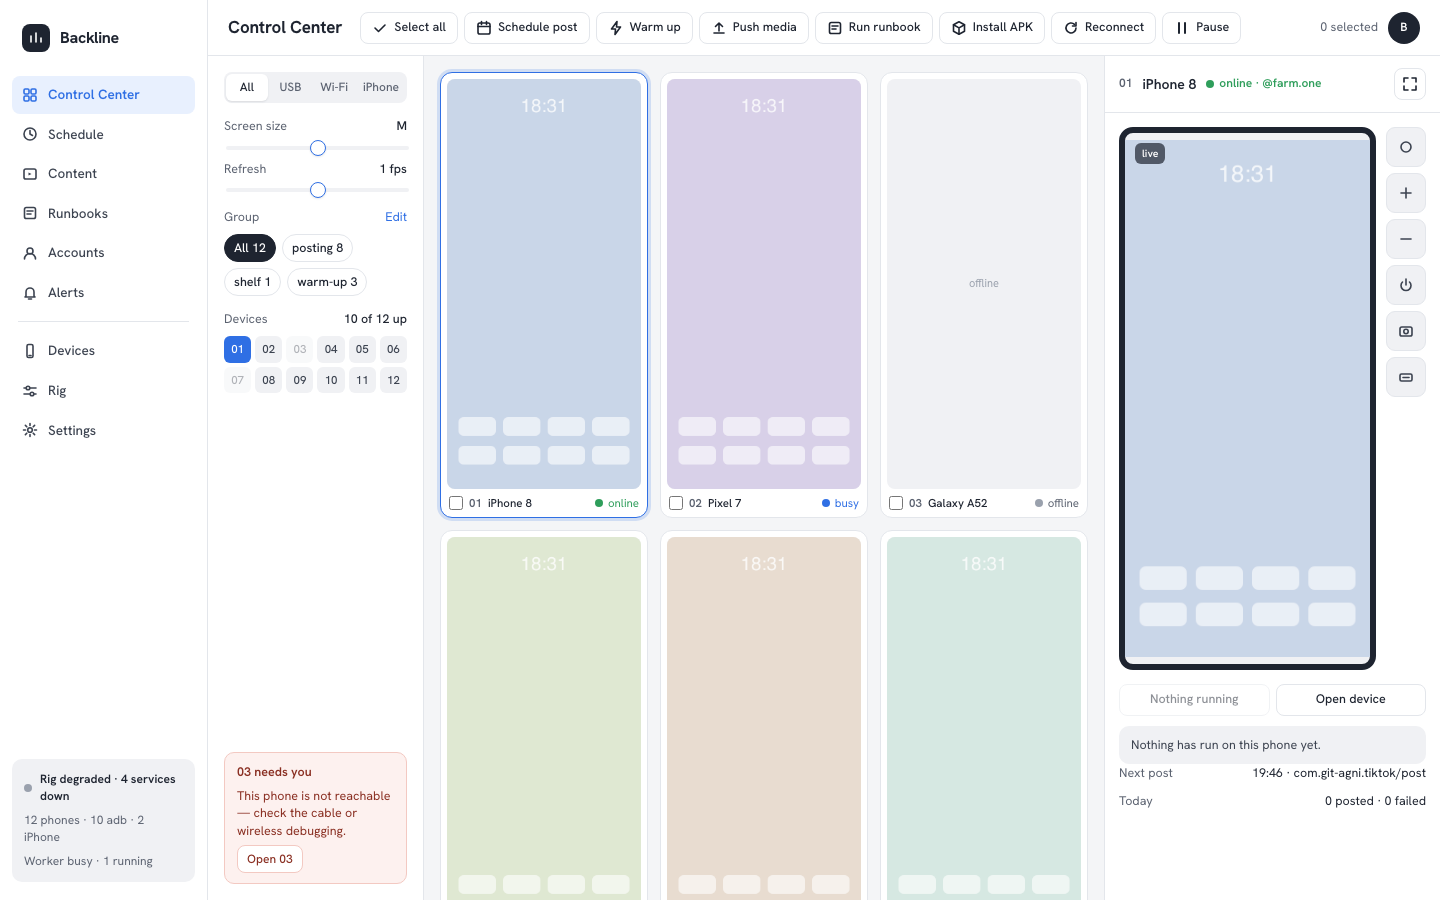
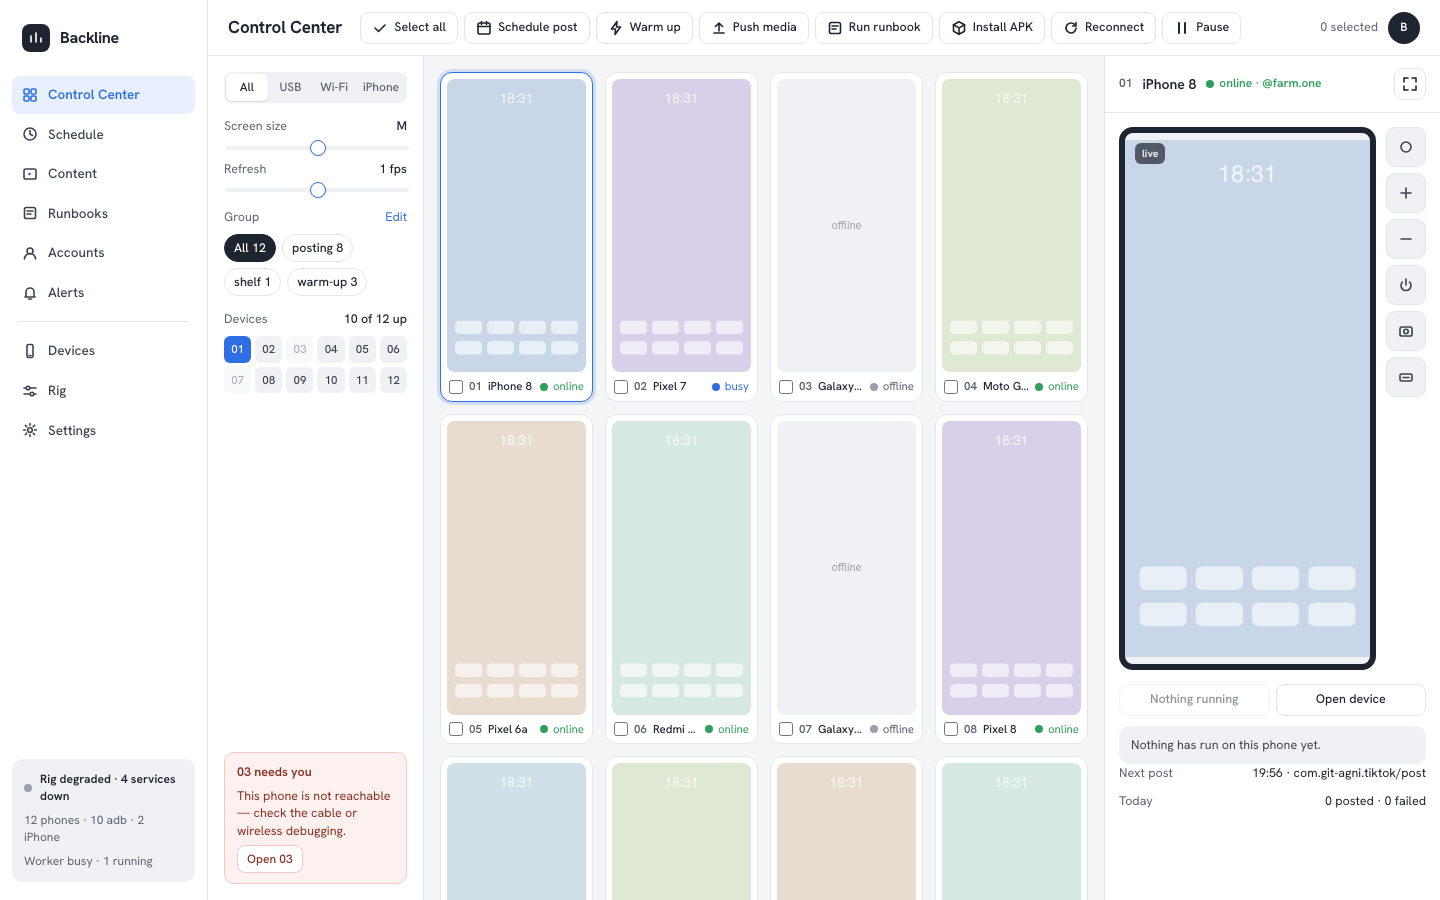
Wall: 120/150/210 tile minimums so medium fits four columns at 1440
The medium notch was 170px, which left the 680px wall column at 1440x900
with three tiles per row and a ragged right edge. 150 gives four 153px
columns; S and L move with it. The spec, the settings page and the
Control Center screenshot say the new numbers.

Changed region(s): [[0.2812, 0.0622, 0.75, 1.0], [0.6562, 0.0622, 0.75, 0.4356], [0.3438, 0.0933, 0.375, 0.1244]]

diff --git a/static/dashboard/backline.css b/static/dashboard/backline.css
@@ -120,7 +120,7 @@ svg.bl-icon { width: 16px; height: 16px; flex: none; stroke: currentColor; fill:
 .bl-cc-filters .bl-label { display: flex; justify-content: space-between; color: var(--bl-text-3); }
 .bl-cc-filters .bl-label b { color: var(--bl-text); font-weight: 500; }
 .bl-numgrid { display: grid; grid-template-columns: repeat(6, minmax(0, 1fr)); gap: 4px; }
-.bl-wall { display: grid; gap: 12px; padding: 16px; align-content: start; overflow: auto; grid-template-columns: repeat(auto-fill, minmax(var(--bl-tile, 170px), 1fr)); }
+.bl-wall { display: grid; gap: 12px; padding: 16px; align-content: start; overflow: auto; grid-template-columns: repeat(auto-fill, minmax(var(--bl-tile, 150px), 1fr)); }
 .bl-tile { display: flex; flex-direction: column; gap: 6px; padding: 6px; border-radius: 12px; background: var(--bl-panel); border: 1.5px solid var(--bl-line); text-align: left; cursor: pointer; }
 .bl-tile.is-selected { border-color: var(--bl-accent); box-shadow: var(--bl-ring); }
 .bl-tile.is-error { border-color: var(--bl-bad); }

diff --git a/src/ui/pages.ts b/src/ui/pages.ts
@@ -154,6 +154,8 @@ export function renderSettingsPage(input: SettingsInput): string {
 <a href="/settings?theme=auto"${input.theme === 'auto' ? ' aria-current="true"' : ''}>Auto</a>
 <a href="/settings?theme=light"${input.theme === 'light' ? ' aria-current="true"' : ''}>Light</a></div>`;
     const tiles = `<div class="bl-rows">
+<div><span>Tile size</span><span>S 120 · M 150 · L 210 px</span></div>
+<div><span>Default</span><span>Medium, 1 fps — four columns at 1440 wide</span></div>
 <div><span>Screen size</span><span><button type="button" class="bl-btn bl-btn-sm" data-reset-tiles>Reset to medium, 1 fps</button></span></div>
 <div><span>Where they are kept</span><span class="bl-faint">This browser only</span></div></div>`;
     const tokens = `<p class="bl-muted">API tokens are minted from the command line so they never pass

diff --git a/static/dashboard/ts/shell.ts b/static/dashboard/ts/shell.ts
@@ -42,7 +42,7 @@ export function send(url: string, body: unknown, method = 'POST'): Promise<unkno
 /** Frames per second for each notch of the refresh slider; 0 means "hold the last frame". */
 export const FRAME_RATES = [0, 0.5, 1, 2, 4] as const;
 /** Tile minimum width in px for small, medium and large. */
-export const TILE_SIZES = [120, 170, 240] as const;
+export const TILE_SIZES = [120, 150, 210] as const;
 export const TILE_SIZE_LABELS = ['S', 'M', 'L'] as const;
 
 export function rateLabel(rate: number): string {

diff --git a/static/dashboard/assets/shell.js b/static/dashboard/assets/shell.js
@@ -31,7 +31,7 @@ export function send(url, body, method = 'POST') {
 /** Frames per second for each notch of the refresh slider; 0 means "hold the last frame". */
 export const FRAME_RATES = [0, 0.5, 1, 2, 4];
 /** Tile minimum width in px for small, medium and large. */
-export const TILE_SIZES = [120, 170, 240];
+export const TILE_SIZES = [120, 150, 210];
 export const TILE_SIZE_LABELS = ['S', 'M', 'L'];
 export function rateLabel(rate) {
     return rate === 0 ? 'off' : `${rate} fps`;

diff --git a/docs/design/backline.md b/docs/design/backline.md
@@ -70,7 +70,13 @@ lives in `src/ui/icons.ts`; add to it rather than inlining new glyphs. Never emo
 Desktop shell (`src/ui/shell.ts` `renderShell`): 208px sidebar (brand, nav, rig status), 56px
 toolbar (page title, page actions, right cluster), content. Content pages are full-bleed inside
 that; panels are `bl-panel`. Control Center is three columns: 216px filter panel, the wall, 336px
-inspector. Schedule is a full-width timeline with a 150px track-name gutter. Min width 1180.
+inspector. Schedule is a full-width timeline with a 150px track-name gutter. Min width 1180;
+below it the shell scrolls sideways rather than squeezing, and the toolbar stays on one line.
+
+The wall's tile size slider has three notches — S 120px, M 150px, L 210px — as the minimum
+column width of `repeat(auto-fill, minmax(…, 1fr))`. Medium is the default, and at 1440x900 it
+gives the wall four columns: 1440 - 208 sidebar leaves 1232, minus the 216 filter panel and the
+336 inspector leaves 680, minus 16px padding either side and three 12px gaps is four 153px tiles.
 
 Nav, in order: Control Center, Schedule, Content, Runbooks, Accounts, Alerts, (divider), Devices,
 Rig, Settings. Alerts carries an unread count.
